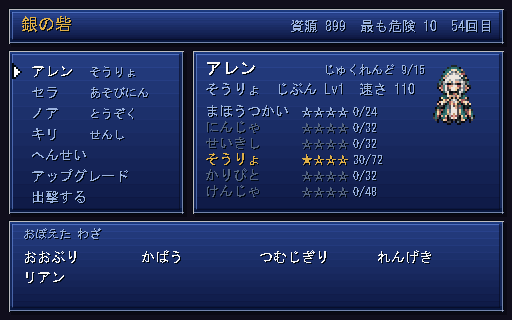
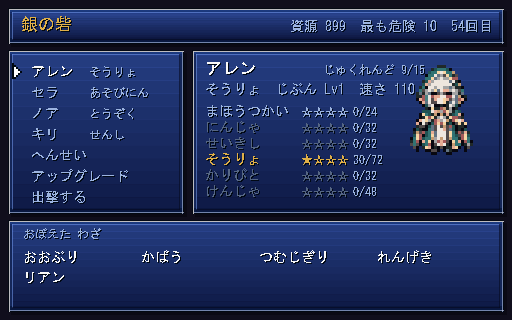
C-5 職業画像を 3 倍へ、C-2 自動プレイの町滞在と集計を直す
立ち絵を 2 倍から 3 倍（72x96）へ。角・仮面・有機的な襟が読めなかった。職業の
描き分けはシルエットで作っているので、小さいとその努力が全部消える。

自動プレイが町を素通りしていた（滞在 0.3 秒、NPC を一人も踏まない）。町では
12 秒ねばって人にぶつかり、店を試してから出口へ向かうようにした（酔歩では
閉じた広場から出られないので、出るときは経路に従う）。実測 0 回 → 6 回。

「最も危険 1」の集計は 2 度目の同じ抜けだった。表示を「危険度」に変えたのに
「地下」を探したままで、危険度 9 まで行っても 1 と出ていた。文字列を当てにした
集計は、表示を変えたら必ず一緒に直す。

2 状態の往復を詰まりとして検出する。同じ画面に貼り付くことだけを見ていたので、
世界と町を出入りし続ける足踏みは素通りしていた。ただし戦闘を含む往復は正常
（歩く↔戦うはゲームが動いている姿）で、そこを除かないと本物の足踏みが埋もれる。

tasks.md の運用を変えた。済んだ項目は消さず [x] を付けて archive へ持っていく
（何が完了したのかが一覧で追えるように）。AGENTS.md にも書いた。

Changed region(s): [[0.7812, 0.1875, 0.9375, 0.5]]

diff --git a/tasks.md b/tasks.md
@@ -24,7 +24,7 @@
 
 ## 進み具合
 
-**完了記録 212 行（実タスク数は再集計待ち） / 残り 22 件。**
+**完了記録 218 行（実タスク数は再集計待ち） / 残り 20 件。**
 
 終わった項目はここから消して `docs/tasks_archive.md` へ移すので、
 このファイルに `[x]` は残らない。**動いているかどうかは下の「直近に済んだこと」で見る。**
@@ -32,11 +32,11 @@
 
 ### 直近に済んだこと
 
-- 場面の演出（48px）と戦闘の絵（32px）でコマの大きさが違うので、
-- **割り当て先の絵が実在するかもテストで見る。** 名前を書き間違えても
-- **対応表は画面ではなく静的クラス（`BattleFx`）へ置いた。** Node に属する
-- **位置は `_draw_enemies()` と同じ式から取る。** 別に計算すると、並びを変えた
-- 32x32 の 4 コマを、被弾した相手の位置に出す。**属性が最優先**（炎の技は炎に
+- **2 状態の往復を詰まりとして検出する。** 「同じ画面に貼り付く」だけを見ていたので、
+- **「最も危険 1」の集計が 2 度目の同じ抜けだった。** 表示を「危険度」に変えたのに
+- **自動プレイが町を素通りしていた**（滞在 0.3 秒、NPC を一人も踏まない）。
+- **立ち絵を 2 倍から 3 倍（72x96）へ。** 角・仮面・有機的な襟が読めなかった。
+- [x] **[Codex追記 C-5] 職業画像を拠点と職業選択で鑑賞できる大きさにする。**
 
 ## 次にやる（効き目の大きい順）
 
@@ -93,17 +93,6 @@ Codex は**データと設計だけ**を出している（`data/cross_world_arcs
 以下は Codex が150秒の入力駆動プレイ（124コマ、20戦、危険度10到達）を
 目視して追加した。根拠と完了条件は `docs/art_integration_audit.md` の
 「2026-07-31 再プレイ」に置く。
-
-- [ ] **[Codex追記 C-2] 自動プレイを町の中に滞在させ、監査値を正しくする。**
-      今回の町滞在は108.9〜109.2秒の0.3秒だけで、NPCを一人も撮れなかった。
-      町では最低2人に話し、宿か店を試してから出る経路を持たせる。
-      併せて、危険度10へ到達したのに「最も危険: 1」と出る集計と、
-      世界↔町の2状態反復を検出できない詰まり判定を直す。
-
-- [ ] **[Codex追記 C-5] 職業画像を拠点と職業選択で鑑賞できる大きさにする。**
-      現在の48x64表示では角、仮面、有機襟がほぼ読めない。
-      72x96の最近傍3倍を基準に人物領域を確保し、全15職を同じ枠で撮る。
-      （`--shot=` が暗転待ちの競合でタイトルを撮る問題は解決済み）
 
 - [ ] **[Codex追記 C-8] 町の設定を先に決め、間取り・施設・NPCへ一貫して反映する。**
       現在は「中央広場から宿・店・出口が見える」とコメントしているのに、

diff --git a/docs/tasks_archive.md b/docs/tasks_archive.md
@@ -772,3 +772,33 @@
   「黙って何も出ない」で通ってしまうため。40 技すべてに絵が付いた。
 - 場面の演出（48px）と戦闘の絵（32px）でコマの大きさが違うので、
   `EventEffect` が名前の頭（`fx_`）で置き場とコマ寸を切り替える。
+
+## 2026-07-31（C-5 職業画像の拡大 / C-2 自動プレイの町滞在と集計）
+
+済んだ項目:
+
+- [x] **[Codex追記 C-2] 自動プレイを町の中に滞在させ、監査値を正しくする。**
+      今回の町滞在は108.9〜109.2秒の0.3秒だけで、NPCを一人も撮れなかった。
+      町では最低2人に話し、宿か店を試してから出る経路を持たせる。
+      併せて、危険度10へ到達したのに「最も危険: 1」と出る集計と、
+      世界↔町の2状態反復を検出できない詰まり判定を直す。
+
+- [x] **[Codex追記 C-5] 職業画像を拠点と職業選択で鑑賞できる大きさにする。**
+      現在の48x64表示では角、仮面、有機襟がほぼ読めない。
+      72x96の最近傍3倍を基準に人物領域を確保し、全15職を同じ枠で撮る。
+      （`--shot=` が暗転待ちの競合でタイトルを撮る問題は解決済み）
+
+
+- **立ち絵を 2 倍から 3 倍（72x96）へ。** 角・仮面・有機的な襟が読めなかった。
+  職業の描き分けはシルエットで作っているので、小さいと**その努力が全部消える**。
+- **自動プレイが町を素通りしていた**（滞在 0.3 秒、NPC を一人も踏まない）。
+  町では 12 秒ねばって人にぶつかり、店を試してから出口へ向かうようにした
+  （酔歩では閉じた広場から出られないので、出るときは経路に従う）。
+  実測 0 回 → 6 回。
+- **「最も危険 1」の集計が 2 度目の同じ抜けだった。** 表示を「危険度」に変えたのに
+  「地下」を探したままで、危険度 9 まで行っても 1 と出ていた。
+  **文字列を当てにした集計は、表示を変えたら必ず一緒に直す。**
+- **2 状態の往復を詰まりとして検出する。** 「同じ画面に貼り付く」だけを見ていたので、
+  世界と町を出入りし続ける足踏みは素通りしていた（実際に起きた）。
+  ただし**戦闘を含む往復は正常**（歩く↔戦うはゲームが動いている姿）。
+  そこを除かないと本物の足踏みが埋もれる。

diff --git a/AGENTS.md b/AGENTS.md
@@ -49,7 +49,9 @@ godot --path . -- --play=150 --dev-level=6            # 自分で遊んで詰ま
 その場でやり始めると、いま直している不具合が混ざって差分が読めなくなる。
 気づいたことは行を足して、着手するときに上から取る。
 
-**終わった項目は `docs/tasks_archive.md` へ移す。** 残すのは理由だけで、
+**終わった項目は `[x]` を付けてから `docs/tasks_archive.md` へ移す。**
+消すのではなく、済んだ行そのものを控えへ持っていく（何が完了したのかが
+一覧で追えるようにする）。 残すのは理由だけで、
 「何をしたか」より「なぜそうしたか」を書く（同じ判断を二度しないため）。
 `tasks.md` は **200 行以内**に保つ。長い一覧は読まれず、読まれない一覧は
 棚卸しされないまま終わった項目と生きている項目が混ざる。
